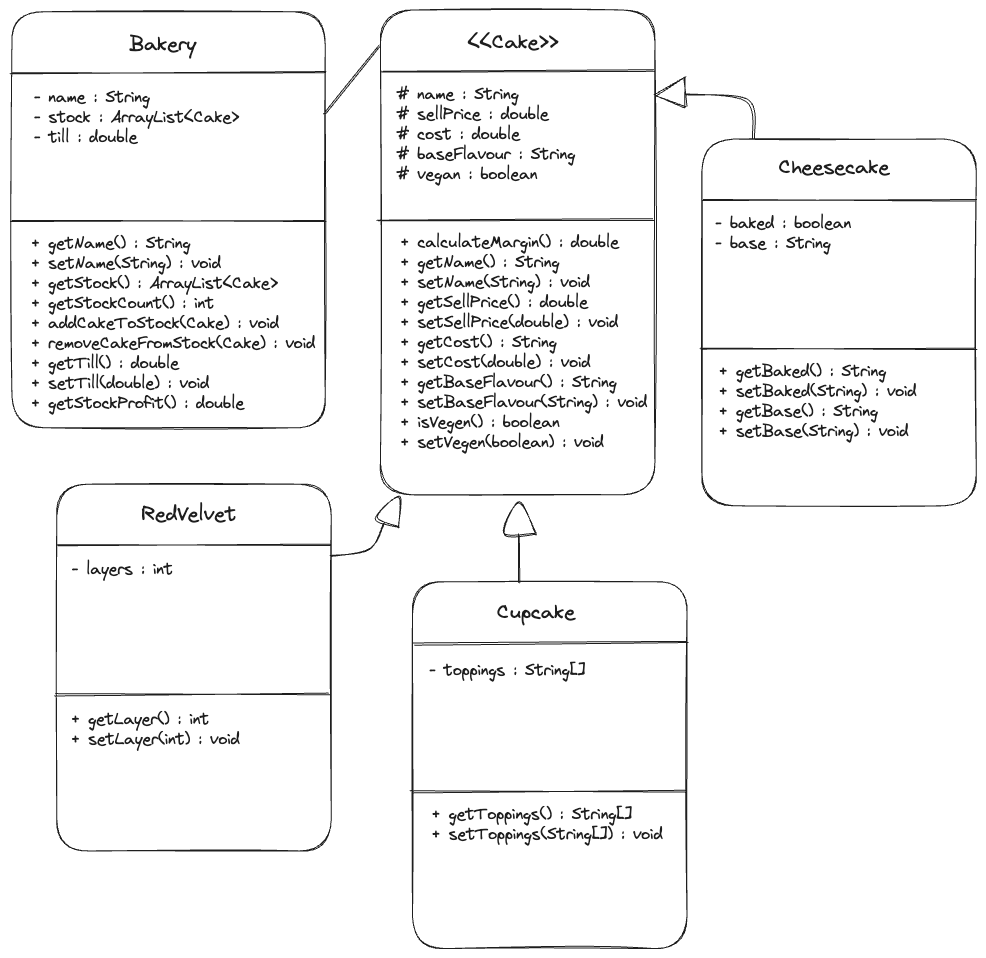
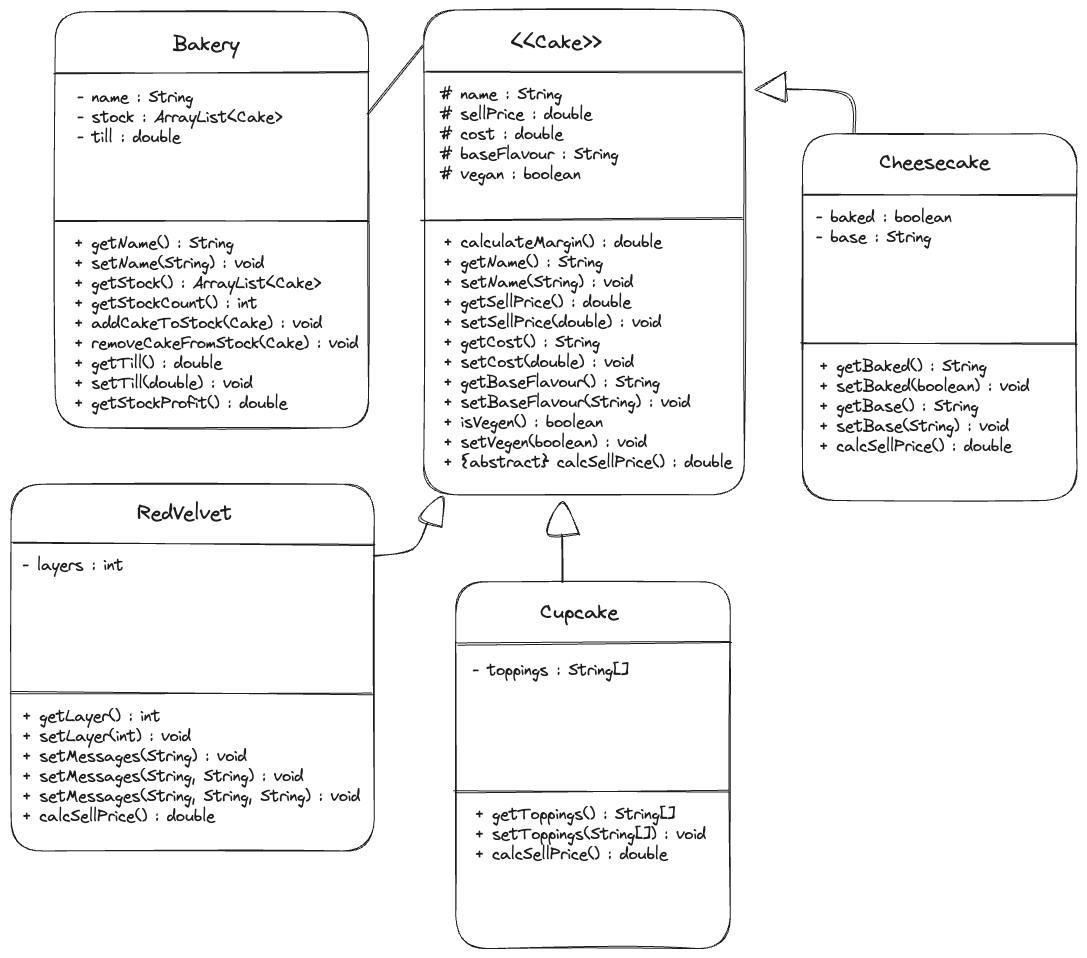
extension 1 and 2 completed (need to update UML)

diff --git a/src/test/java/RedVelvetTest.java b/src/test/java/RedVelvetTest.java
@@ -1,6 +1,8 @@
 import org.junit.jupiter.api.BeforeEach;
 import org.junit.jupiter.api.Test;
 
+import java.util.ArrayList;
+
 import static org.assertj.core.api.AssertionsForClassTypes.assertThat;
 
 public class RedVelvetTest {
@@ -10,6 +12,7 @@ public class RedVelvetTest {
     @BeforeEach
     public void setUp(){
         redvelvet = new RedVelvet("Classic","red_velvet",3.50,9.99,false,3);
+        redvelvet.setMessages("Hello");
     }
 
     @Test
@@ -81,6 +84,45 @@ public class RedVelvetTest {
     public void canSetVegan(){
         redvelvet.setVegan(true);
         assertThat(redvelvet.isVegan()).isEqualTo(true);
+    }
+
+    @Test
+    public void canGetMessages(){
+        ArrayList<String> expected = new ArrayList<>();
+        expected.add("Hello");
+        assertThat(redvelvet.getMessages()).isEqualTo(expected);
+    }
+
+    @Test
+    public void canAddOneMessage(){
+        ArrayList<String> expected = new ArrayList<>();
+        expected.add("Happy Birthday!");
+        redvelvet.setMessages("Happy Birthday!");
+        assertThat(redvelvet.getMessages()).isEqualTo(expected);
+    }
+
+    @Test
+    public void canAddTwoMessage(){
+        ArrayList<String> expected = new ArrayList<>();
+        expected.add("Happy Birthday!");
+        expected.add("Kevin");
+        redvelvet.setMessages("Happy Birthday!","Kevin");
+        assertThat(redvelvet.getMessages()).isEqualTo(expected);
+    }
+
+    @Test
+    public void canAddThreeMessage(){
+        ArrayList<String> expected = new ArrayList<>();
+        expected.add("Happy Birthday!");
+        expected.add("Kevin");
+        expected.add("You are old!");
+        redvelvet.setMessages("Happy Birthday!","Kevin","You are old!");
+        assertThat(redvelvet.getMessages()).isEqualTo(expected);
+    }
+
+    @Test
+    public void canCalcSellPrice(){
+        assertThat(redvelvet.calcSellPrice()).isEqualTo(8.50);
     }
 
 

diff --git a/src/main/java/RedVelvet.java b/src/main/java/RedVelvet.java
@@ -1,10 +1,14 @@
+import java.util.ArrayList;
+
 public class RedVelvet extends Cake{
 
     private int layers;
+    private ArrayList<String> decorativeMessages;
 
     public RedVelvet(String name, String baseFlavour, double cost, double sellPrice, boolean vegan ,int layers){
         super(name, baseFlavour, cost, sellPrice, vegan);
         this.layers = layers;
+        this.decorativeMessages = new ArrayList<>();
     }
 
     public int getLayers(){
@@ -13,6 +17,32 @@ public class RedVelvet extends Cake{
 
     public void setLayers(int layers){
         this.layers = layers;
+    }
+
+    public ArrayList<String> getMessages(){
+        return this.decorativeMessages;
+    }
+
+    public void setMessages(String message1){  //OVERLOADED METHODS
+        this.decorativeMessages = new ArrayList<>();
+        this.decorativeMessages.add(message1);
+    }
+
+    public void setMessages(String message1, String message2){
+        this.decorativeMessages = new ArrayList<>();
+        this.decorativeMessages.add(message1);
+        this.decorativeMessages.add(message2);
+    }
+
+    public void setMessages(String message1, String message2, String message3){
+        this.decorativeMessages = new ArrayList<>();
+        this.decorativeMessages.add(message1);
+        this.decorativeMessages.add(message2);
+        this.decorativeMessages.add(message3);
+    }
+
+    public double calcSellPrice(){
+        return 5.50 + this.layers; //price is now dependent on layer count
     }
 
 }

diff --git a/src/test/java/CheesecakeTest.java b/src/test/java/CheesecakeTest.java
@@ -94,4 +94,22 @@ public class CheesecakeTest {
         assertThat(cheesecake.isVegan()).isEqualTo(true);
     }
 
+    @Test
+    public void canCalcSellPriceDigestives(){
+        cheesecake.setBase("digestives");
+        assertThat(cheesecake.calcSellPrice()).isEqualTo(9.50);
+    }
+
+    @Test
+    public void canCalcSellPriceHobknobs(){
+        cheesecake.setBase("hobknobs");
+        assertThat(cheesecake.calcSellPrice()).isEqualTo(8.50);
+    }
+
+    @Test
+    public void canCalcSellPriceOther(){
+        cheesecake.setBase("shortcake");
+        assertThat(cheesecake.calcSellPrice()).isEqualTo(7.50);
+    }
+
 }

diff --git a/src/test/java/CupcakeTest.java b/src/test/java/CupcakeTest.java
@@ -84,5 +84,15 @@ public class CupcakeTest {
         assertThat(cupcake.isVegan()).isEqualTo(false);
     }
 
+    @Test
+    public void canCalcVegan(){
+        assertThat(cupcake.calcSellPrice()).isEqualTo(4.49);
+    }
+
+    @Test
+    public void canCalcNonVegan(){
+        cupcake.setVegan(false);
+        assertThat(cupcake.calcSellPrice()).isEqualTo(3.99);
+    }
 
 }

diff --git a/src/main/java/Cheesecake.java b/src/main/java/Cheesecake.java
@@ -25,5 +25,16 @@ public class Cheesecake extends Cake{
         this.base = base;
     }
 
+    public double calcSellPrice(){
+        if(base.equals("hobknobs")){
+            return this.sellPrice + 1;
+        } else if(base.equals("digestives")){
+            return this.sellPrice + 2;
+        }
+        return this.sellPrice;
+    }
+
+
+
 
 }

diff --git a/src/main/java/Cupcake.java b/src/main/java/Cupcake.java
@@ -15,4 +15,10 @@ public class Cupcake extends Cake{
         this.toppings = toppings;
     }
 
+    public double calcSellPrice() {
+        if(this.vegan){
+            return sellPrice + 0.5;
+        }
+        return sellPrice;
+    }
 }

diff --git a/src/main/java/Cake.java b/src/main/java/Cake.java
@@ -58,5 +58,7 @@ public abstract class Cake{
         this.vegan = vegan;
     }
 
+    public abstract double calcSellPrice(); //ABSTRACT METHOD
+
 
 }
